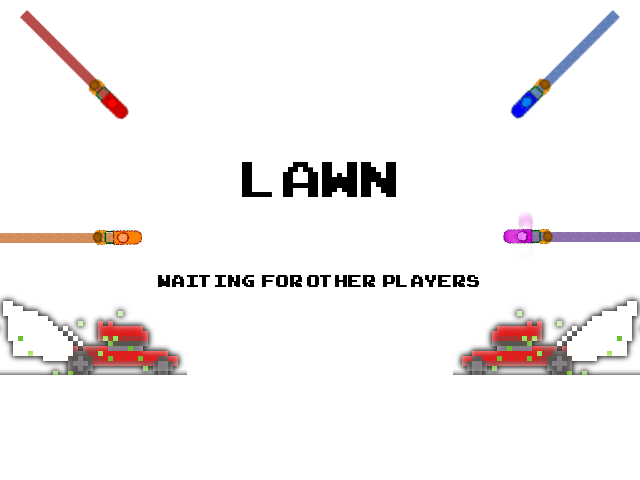
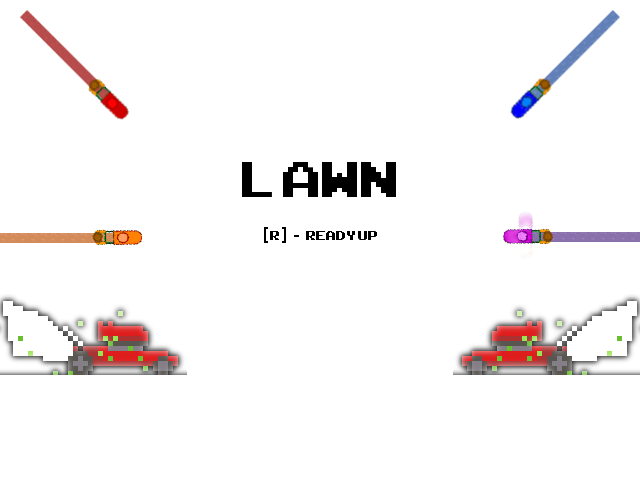
matchmaking

Changed region(s): [[0.25, 0.5625, 0.75, 0.625], [0.4062, 0.4688, 0.5938, 0.5]]

diff --git a/client.py b/client.py
@@ -15,9 +15,13 @@ import math
 
 SERVER_HOST = 'student03.cse.nd.edu'
 SERVER_PORT = 40091
+GAME_HOST = ''
+GAME_PORT = 40091
 
-send = DeferredQueue()
-receive = DeferredQueue()
+match_send = DeferredQueue()
+match_receive = DeferredQueue()
+game_send = DeferredQueue()
+game_receive = DeferredQueue()
 
 class GameSpace(object):
 	def __init__(self):
@@ -27,20 +31,30 @@ class GameSpace(object):
 		self.player_mowers = []
 		self.player_shadows = []
 		self.curr_shadow = None
-		receive.get().addCallback(self.receiveCallback)
-		# tick regulation variable
-		self.tick = 0
+		match_receive.get().addCallback(self.match_receiveCallback)
+		self.tick = 0# tick regulation variable
 		self.flip_rate = 30
-		self.dir = 0
-		self.ready = False
-		self.num_players = 0
+		self.dir = 0#direction that player i facing
+		self.ready = False#boolean for if game is starting
+		self.num_players = 0#number of players in game
+		#possible ghost images
 		self.ghosts = ["images/red_grass.png", "images/blue_grass.png", "images/purple_grass.png", "images/orange_grass.png"]
+		#possible mower images
 		self.mowers = ["images/red_mower.png", "images/blue_mower.png", "images/purple_mower.png", "image/orange_mower.png"]
+		#title screen image
 		self.title = Image("images/title.png", [self.width/2, self.height/2], self)
+		#grass background image
 		self.background = Image("images/grass_background.png", [self.width/2, self.height/2], self)
-		self.alive = True
+		self.alive = True#boolean for if you are alive
+		#game over screen image
 		self.game_over = Image("images/gameover.png", [self.width/2, self.height/2], self)
-		self.player_number = 0
+		#win screen image
+		self.win_screen = Image("images/win.png", [self.width/2, self.height/2], self)
+		self.player_number = 0#your player number
+		self.players_ready = 0#number of players ready to play
+		self.countdown = 100#seconds until game starts
+		self.font = pygame.font.Font(None, 30)#font object for dynamic text
+		self.win = False#boolean for if you have won
 
 	def main(self):
 		self.tick = (self.tick+1)%self.flip_rate
@@ -51,43 +65,52 @@ class GameSpace(object):
 			elif self.ready:
 				if event.type == KEYDOWN:
 					if event.key == K_UP:
-						send.put("up")
+						game_send.put("up")
 					elif event.key == K_DOWN:
-						send.put("down")
+						game_send.put("down")
 					elif event.key == K_LEFT:
-						send.put("left")
+						game_send.put("left")
 					elif event.key == K_RIGHT:
-						send.put("right")
+						game_send.put("right")
+			else:
+				if event.type == KEYDOWN:
+					if event.key == K_r:
+						match_send.put("ready")
 
 		#display game objects
 		self.screen.blit(self.background.image, self.background.rect)
 		if not self.ready:
 			#display loading screen
 			self.screen.blit(self.title.image, self.title.rect)
+			#statu text
+			text1 = self.font.render("Players Ready: {0}/{1}".format(self.players_ready, self.num_players), True, (0, 0, 0))
+			text1pos = text1.get_rect(center = (self.width/2, self.height/2+50))
+			text2 = self.font.render("Game starting in {0} seconds...".format(self.countdown), True, (0, 0, 0))
+			text2pos = text2.get_rect(center = (self.width/2, self.height/2+90))
+			self.screen.blit(text1, text1pos)
+			self.screen.blit(text2, text2pos)
 		else:
 			#display game
 			if len(self.player_shadows) > 0:
-			# if len(self.shadow.sprites()) > 0:
-				# self.screen.blit(self.curr_shadow.image, self.curr_shadow.rect)
-
 			# update does not have the overhead of flip b/c it only blits the args, not the entire page
-			# if self.tick == 0:
 				for player in self.player_shadows:
 					player.draw(self.screen)
 				for player in self.player_mowers:
 					self.screen.blit(player.image, player.rect)
-			if not self.alive:
+			if self.win:
+				self.screen.blit(self.win_screen.image, self.win_screen,rect) 
+			elif not self.alive:
 				self.screen.blit(self.game_over.image, self.game_over.rect)
 		pygame.display.flip()
 		# else:
 			# pygame.display.update(self.Image)
 
-	def receiveCallback(self, data):
+	def game_receiveCallback(self, data):
 		#receive new center
 		try:
 			new_state = pickle.loads(data)
 		except:
-			receive.get().addCallback(self.receiveCallback)
+			game_receive.get().addCallback(self.game_receiveCallback)
 			return
 		#create new Image sprite with that center
 		for i in xrange(self.num_players):
@@ -105,9 +128,35 @@ class GameSpace(object):
 			self.player_mowers[i].image = self.player_mowers[i].rot_center(self.player_mowers[i].original_image, 90*self.dir)
 		#add new sprite to group
 			self.player_shadows[i].add(self.curr_shadow)
-			if new_state[i]['alive'] == False and i == self.player_number:
-				self.alive = False
-		receive.get().addCallback(self.receiveCallback)
+			dead_players = 0
+			if new_state[i]['alive'] == False:
+				dead_players += 1
+				if i == self.player_number:
+					self.alive = False
+				elif dead_players == self.num_players - 1 and self.alive:
+					self.win = True
+		game_receive.get().addCallback(self.game_receiveCallback)
+
+	def match_receiveCallback(self, data):
+		try:
+			new_state = pickle.loads(data)
+		except:
+			match_receive.get().addCallback(self.match_receiveCallback)
+
+		#update seconds, number of players, and ready players
+		self.num_players = new_state['Players Total']
+		if not new_state['Begin Game']:
+			self.players_ready = new_state['Players Ready']
+			self.countdown = new_state['Time Left']
+
+		else:
+			#if time to play, connect to game server
+			GAME_HOST = new_state['Host']
+			GAME_PORT = new_state['Port']
+			reactor.connectTCP(GAME_HOST, GAME_PORT, GameConnFactory(self))
+			game_receive.get().addCallback(self.game_receiveCallback)
+			self.player_number = new_state['Player Number']
+			self.make_players()
 
 	def make_players(self):
 		for i in xrange(self.num_players):
@@ -144,14 +193,14 @@ class Image(pygame.sprite.Sprite):
 		# print center
 		self.rect.center = center
 
-class ServerConn(Protocol):
+class MatchmakingConn(Protocol):
 	def __init__(self, gs):
 		print 'connection init'
 		self.gs = gs
 
 	def connectionMade(self):
 		print "connection made to", SERVER_HOST, "port", SERVER_PORT
-		send.get().addCallback(self.sendCallback)
+		match_send.get().addCallback(self.match_sendCallback)
 
 	def connectionLost(self, reason):
 		print "connection lost to", SERVER_HOST, "port", SERVER_PORT
@@ -161,36 +210,68 @@ class ServerConn(Protocol):
 			pass
 
 	def dataReceived(self, data):
-		if not self.gs.ready:
-			unpack = pickle.loads(data)
-			self.gs.num_players = unpack['Player Count']
-			self.gs.player_number = unpack['Player Number']
-			self.gs.make_players()
-		else:
-			receive.put(data)
+		# if not self.gs.ready:
+		# 	unpack = pickle.loads(data)
+		# 	self.gs.num_players = unpack['Player Count']
+		# 	self.gs.player_number = unpack['Player Number']
+		# 	self.gs.make_players()
+		# else:
+		match_receive.put(data)
 
-	def sendCallback(self, data):
+	def match_sendCallback(self, data):
 		self.transport.write(data)
-		send.get().addCallback(self.sendCallback)
+		match_send.get().addCallback(self.match_sendCallback)
 
-class ServerConnFactory(ClientFactory):
+class MatchmakingConnFactory(ClientFactory):
 	def __init__(self, gs):
 		self.gs = gs
 		print 'factory init'
 
 	def buildProtocol(self, addr):
 		print 'factory buildprotocol'
-		return ServerConn(self.gs)
+		return MatchmakingConn(self.gs)
 
 	def clientConnectionFailed(self, connector, reason):
 		print "failed to connect to", SERVER_HOST, "port", SERVER_PORT
-		reactor.stop()
+		# reactor.stop()
+
+class GameConn(Protocol):
+	def __init__(self, gs):
+		self.gs = gs
+
+	def connectionMade(self):
+		print "connection made to game server"
+		#tell game server your player number
+		self.transport.write(self.gs.player_number)
+
+
+	def connecitonLost(self, reason):
+		print "connection lost to game server"
+		try:
+			reactor.stop()
+		except:
+			pass
+
+	def dataReceived(self, data):
+		game_receive.put(data)
+
+
+class GameConnFactory(ClientFactory):
+	def __init__(self, gs):
+		self.gs = gs
+
+	def buildProtocol(self, addr):
+		return GameConn(self.gs)
+
+	def clientConnectionFailed(self, connector, reason):
+		print "failed to connect to game server"
+		# reactor.stop()
 
 if __name__ == '__main__':
 	print 'Initializing pygame Gamespace...'
 	gs = GameSpace()
 	print 'Initializing twisted connection...'
-	reactor.connectTCP(SERVER_HOST, SERVER_PORT, ServerConnFactory(gs))
+	reactor.connectTCP(SERVER_HOST, SERVER_PORT, MatchmakingConnFactory(gs))
 	lc = LoopingCall(gs.main)
 	lc.start(1.0/20)
 	reactor.run()
